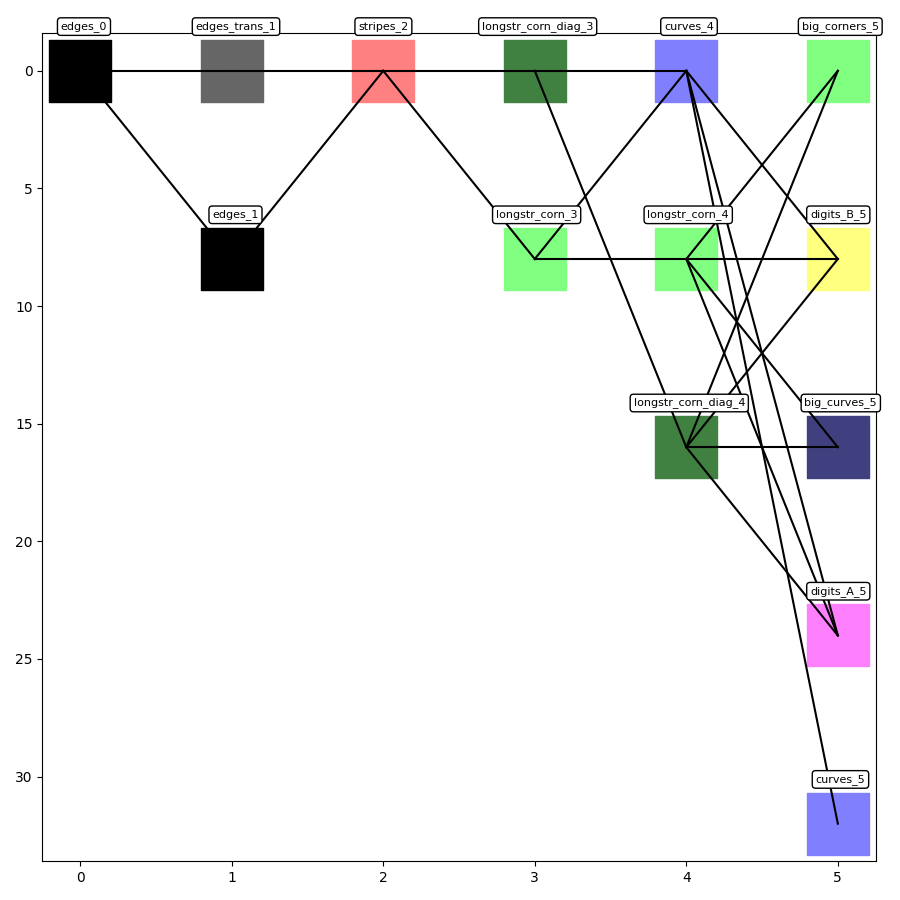
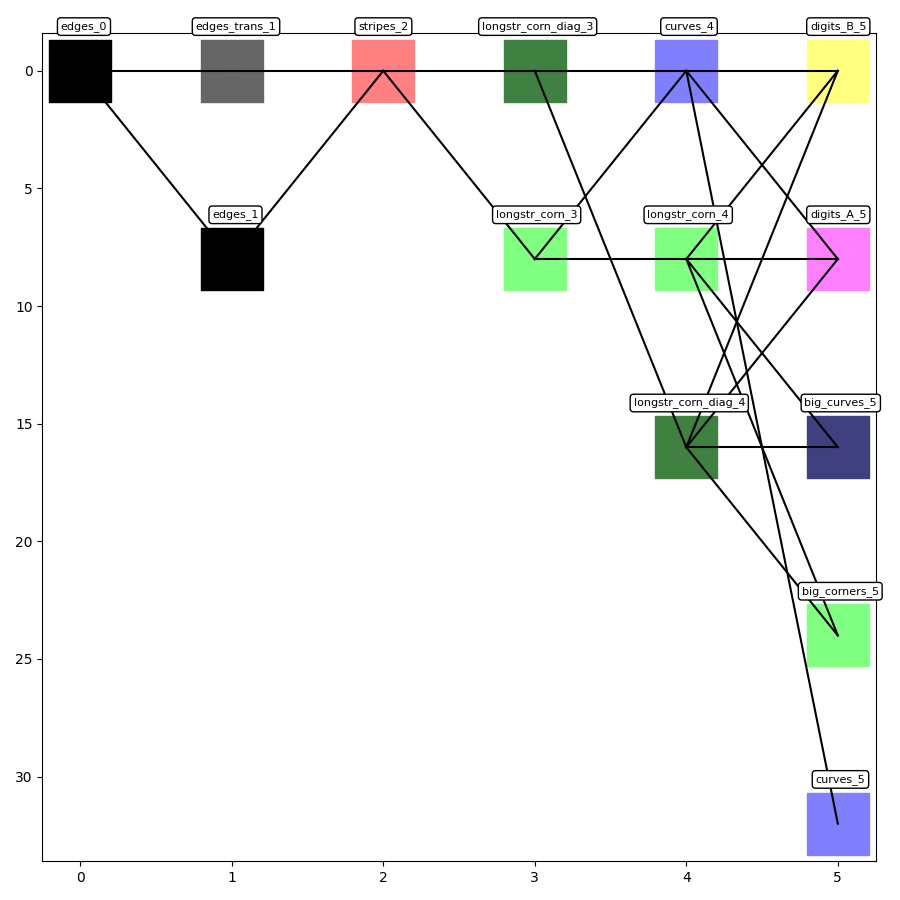
Project HFNetMNIST is compatible to changes in the code.

diff --git a/Python/Scripts/Scripts/PredefinedFilterModules.py b/Python/Scripts/Scripts/PredefinedFilterModules.py
@@ -4,9 +4,8 @@ import torch.nn as nn
 import torch.nn.functional as F
 import numpy as np
 import enum
-import random
 
-from Scripts.TrackingModules import TrackerModuleProvider
+from TrackingModules import TrackerModuleProvider
 
 """
 PredefinedConv padding is zero padding instead of replicate. This seems to improve test accuracy by about 1%.
@@ -658,14 +657,16 @@ class PredefinedConv(nn.Module):
     def create_trackers(self):
         self.tracker_out = tm.instance_tracker_module(label="PFModule")
         self.tracker_out.register_data("PFModule_kernels", self.weight)
+
+
+    def update_internal_weights(self):
+        # The internal weights have to be recomputed when the weights have been changed.
+        n_channels_per_kernel = self.n_channels_out // self.n_kernels
+        self.internal_weight.data = self.weight.data.repeat((n_channels_per_kernel, 1, 1, 1))
     
 
     def forward(self, x: Tensor) -> Tensor:
         groups = self.n_channels_in
-        if self.filters_require_grad and self.training:
-            # The internal weights have to be recomputed, because the weights cound have been changed.
-            n_channels_per_kernel = self.n_channels_out // self.n_kernels
-            self.internal_weight.data = self.weight.data.repeat((n_channels_per_kernel, 1, 1, 1))
         # if self.padding > 0:
         #     x = F.pad(x, (self.padding,self.padding,self.padding,self.padding), "replicate")
         out = F.conv2d(x, self.internal_weight, None, self.stride, groups=groups, dilation=self.dilation, padding=self.padding)
@@ -783,12 +784,12 @@ class ParamTranslationModule(WeightRegularizationModule):
     ) -> None:
         super().__init__()
         assert k % 2 == 1
+        self.k = k
         self.filters_require_grad = filters_require_grad
         self.gradient_radius = gradient_radius
-        print(f"gr: {gradient_radius}")
 
         # Initialize trainable internal weights
-        weight = torch.ones(n_channels, 1, 1, 1) * 0.01 # must not be 0.5 because the torch.abs(x) function in forward has no gradient for x=0
+        weight = (torch.rand(n_channels, 1, 1, 1) - 0.5) * 2. # must not be 0.0 because the torch.abs(x) function in forward has no gradient for x=0
         self.weight = nn.Parameter(weight, filters_require_grad)
         self.register_param_to_clamp(self.weight, -1., 1.)
 
@@ -803,9 +804,7 @@ class ParamTranslationModule(WeightRegularizationModule):
             kernel_positions = kernel_positions.unsqueeze(2)
         self.kernel_positions = nn.Parameter(kernel_positions, False)
 
-        internal_weight = - torch.abs(self.weight - self.kernel_positions) / self.step_size + 1.
-        internal_weight = torch.clamp(internal_weight, -self.gradient_radius, 2.) # upper bound is not relevant
-        internal_weight = DifferentiableClamp.apply(internal_weight, 0., 1.)
+        internal_weight = self.get_internal_weights()
         self.internal_weight = nn.Parameter(internal_weight, False)
         
         self.create_trackers(dim)
@@ -816,15 +815,22 @@ class ParamTranslationModule(WeightRegularizationModule):
         self.tracker_out.register_data("weight_per_channel", self.weight)
         self.tracker_out.register_data("weight_per_channel_limit", [-1., 1.])
 
+    def get_internal_weights(self):
+        # The internal weights have to be recomputed after any change of the weights
+        internal_weight = - torch.abs(self.weight - self.kernel_positions) / self.step_size + 1.
+        internal_weight[internal_weight < -self.gradient_radius] = 0.
+        internal_weight = DifferentiableClamp.apply(internal_weight, 0., 1.)
+        return internal_weight
+    
+    def update_internal_weights(self):
+       self.internal_weight.data = self.get_internal_weights()
+
     def forward(self, x):
-        if self.filters_require_grad and self.training:
-            # The internal weights have to be recomputed, because the weights cound have been changed.
-            internal_weight = - torch.abs(self.weight - self.kernel_positions) / self.step_size + 1.
-            internal_weight = torch.clamp(internal_weight, -self.gradient_radius, 2.) # upper bound is not relevant
-            internal_weight = DifferentiableClamp.apply(internal_weight, 0., 1.)
-            self.internal_weight.data = internal_weight
-        
-        out = F.conv2d(x, self.internal_weight, groups=x.shape[1])
+        if self.training:
+            internal_weight = self.get_internal_weights()
+        else:
+            internal_weight = self.internal_weight
+        out = F.conv2d(x, internal_weight, groups=x.shape[1])
         _ = self.tracker_out(out)
         return out
 
@@ -861,17 +867,17 @@ class ParamTranslationGroup(nn.Module):
         n_channels : int = 1,
         k : int = 3,
         gradient_radius : float = 0.,
-        spatial_requires_grad : bool = True,
+        filters_require_grad : bool = True,
 
     ) -> None:
         super().__init__()
         
         self.padding = k//2
-        self.roll_v = ParamTranslationModule(n_channels, k, 2, gradient_radius, spatial_requires_grad)
-        self.roll_h = ParamTranslationModule(n_channels, k, 3, gradient_radius, spatial_requires_grad)
+        self.roll_v = ParamTranslationModule(n_channels, k, 2, gradient_radius, filters_require_grad)
+        self.roll_h = ParamTranslationModule(n_channels, k, 3, gradient_radius, filters_require_grad)
 
     def forward(self, x):
-        x = F.pad(x, (self.padding, self.padding, self.padding, self.padding), "replicate")
+        x = F.pad(x, (self.padding, self.padding, self.padding, self.padding))
         x = self.roll_v(x)
         x = self.roll_h(x)
         return x

diff --git a/Python/Scripts/Projects/HFNetMNIST/TranslationNetMNIST.py b/Python/Scripts/Projects/HFNetMNIST/TranslationNetMNIST.py
@@ -18,7 +18,7 @@ class PreprocessingModule(nn.Module):
         n_channels_out: int,
         conv_groups: int = 1,
         pool_mode: str = "avgpool",
-        norm_module : nn.Module = pfm.LayerNorm,
+        norm_module : nn.Module = pfm.TrackedLayerNorm,
         permutation : str = "shifted" # one of shifted, identity, disabled
     ) -> None:
         super().__init__()
@@ -88,7 +88,7 @@ class TranslationBlock(nn.Module):
         tm = pfm.tm
         
         if normalization_mode == "layernorm":
-            norm_module = pfm.LayerNorm
+            norm_module = pfm.TrackedLayerNorm
         elif normalization_mode == "batchnorm":
             norm_module = nn.BatchNorm2d
         elif normalization_mode == "identity":
@@ -110,15 +110,16 @@ class TranslationBlock(nn.Module):
         if spatial_mode == "predefined_filters":
             tm.instance_tracker_module_group(label="3x3 Conv")
             self.tracker_input_spatial = tm.instance_tracker_module(label="Input")
-            self.spatial = pfm.PredefinedFilterModule3x3Part(
+            self.spatial = pfm.PredefinedConvWithDecorativeCopy(
                 n_channels_in=n_channels_out,
                 filter_mode=pfm.ParameterizedFilterMode[filter_mode],
                 n_angles=n_angles,
-                handcrafted_filters_require_grad=spatial_requires_grad,
+                filters_require_grad=spatial_requires_grad,
                 f=1,
                 k=3,
                 stride=1,
             )
+            self.spatial_norm = norm_module(n_channels_out)
             self.activation = pfm.TrackedLeakyReLU()
         elif spatial_mode == "parameterized_translation":
             tm.instance_tracker_module_group(label="Translation")
@@ -141,6 +142,7 @@ class TranslationBlock(nn.Module):
         x_skip = x
         _ = self.tracker_input_spatial(x)
         x = self.spatial(x)
+        x = self.spatial_norm(x)
         x = self.activation(x)
         x = self.blend(x_skip, x)
         _ = self.tracker_input_conv_2(x)
@@ -324,7 +326,7 @@ class ConvExpressionsManager():
                 self.block.conv1x1_1.relu.tracker_out,
                 self.block.tracker_input_spatial,
                 self.block.spatial.predev_conv.tracker_out,
-                self.block.spatial.activation_layer.tracker_out,
+                self.block.spatial_norm.tracker_out,
                 self.block.blend.tracker_out,
                 self.block.tracker_input_conv_2,
                 self.block.conv1x1_2.conv1x1.tracker_out,
@@ -690,7 +692,7 @@ class TranslationNet_(nn.Module):
         # Classifier
         tm.instance_tracker_module_group(label="Classifier")
         n_channels_in = blockconfig_list[-1]['n_channels_out']
-        self.classifier = pfm.TrackedConv1x1(n_channels_in, n_classes, 1)
+        self.classifier = pfm.TrackedConv1x1Regularized(n_channels_in, n_classes, 1)
         self.tracker_classifier_softmax = tm.instance_tracker_module(label="Class Probabilities", channel_labels="classes")
         
         pfm.initialize_weights(self.modules(), init_mode)

diff --git a/Python/Scripts/Projects/HFNetMNIST/get_dl_objects.py b/Python/Scripts/Projects/HFNetMNIST/get_dl_objects.py
@@ -37,9 +37,9 @@ def get_network():
             } for i in range(6)],
         init_mode='uniform', # one of uniform, uniform_translation_as_pfm, zero, identity, kaiming
         pool_mode="lppool",
-        #conv_expressions=["digits_A", "digits_B", "big_curves", "curves", "big_corners"],
-        #conv_expressions_path = "conv_expressions_8_filters.txt",
-        #statedict=os.path.join('..', 'Projects', 'HFNetMNIST', 'mnist_translationnet_own_features_block_6_lppool.pt'),
+        conv_expressions=["digits_A", "digits_B", "big_curves", "curves", "big_corners"],
+        conv_expressions_path = "conv_expressions_8_filters.txt",
+        #statedict=os.path.join('..', 'Projects', 'HFNetMNIST', 'mnist_translationnet_lppool.pt'),
     )
         
     dl_network = DLNetwork(model, device, True, IMAGE_SHAPE, softmax=False)
@@ -52,22 +52,33 @@ def get_network():
 def get_dataset():
 
     transform_norm = transforms.Compose([
+        transforms.ToTensor(),
+        transforms.Normalize(mean=NORM_MEAN, std=NORM_STD),
+    ])
+    transform_test = transforms.Compose([
+        transforms.Resize(IMAGE_SHAPE[1:]),
+        transforms.ToTensor()
+    ])
+    transform_test_norm = transforms.Compose([
+            transforms.Resize(IMAGE_SHAPE[1:]),
             transforms.ToTensor(),
             transforms.Normalize(mean=NORM_MEAN, std=NORM_STD),
-        ])
-    transform_test = transforms.Compose([
-            transforms.Resize(IMAGE_SHAPE[1:]),
-            transforms.ToTensor()])
+    ])
 
     dataset = MNIST(b_train=False, transform='transform_test', root=os.path.dirname(os.path.realpath(__file__)), download=False)
     dataset.prepare({'transform_test' : transform_test})
 
+    dataset_test = MNIST(b_train=False, transform='transform_test', root=os.path.dirname(os.path.realpath(__file__)), download=False)
+    dataset_test.prepare({'transform_test' : transform_test_norm})
+
     np.random.seed(SEED)
-    data_indices = None
+    data_indices = []
 
     dldata = DLData(dataset, data_indices, dataset.class_names, N_CLASSES)
+
+    loader_test = torch.utils.data.DataLoader(dataset_test, batch_size=64)
     
-    return dldata, transform_norm
+    return dldata, transform_norm, loader_test
 
 
 def get_noise_generator():

diff --git a/Python/Scripts/Scripts/NoiseGenerator.py b/Python/Scripts/Scripts/NoiseGenerator.py
@@ -15,11 +15,11 @@ class NoiseGenerator:
         # maximum = self.active_noise_image.max()
         # self.active_noise_image = (self.active_noise_image - minimum) / (maximum - minimum)
 
-        # self.active_noise_image = torch.zeros(*self.shape, device=self.device)
-        # self.active_noise_image[:, self.shape[1]//2, self.shape[2]//2] = 1.
-
         self.active_noise_image = torch.zeros(*self.shape, device=self.device)
-        self.active_noise_image[0, :] = 0.5
+        self.active_noise_image[:, self.shape[1]//2, self.shape[2]//2] = 1.
+
+        # self.active_noise_image = torch.zeros(*self.shape, device=self.device)
+        # self.active_noise_image[0, :] = 0.5
 
 
     def get_noise_image(self):

diff --git a/Python/Scripts/Scripts/DLWebServer.py b/Python/Scripts/Scripts/DLWebServer.py
@@ -267,8 +267,8 @@ async def main():
 
 
 if __name__ == "__main__":
-    #project = "HFNetMNIST"
-    project = "Flowers102"
+    project = "HFNetMNIST"
+    #project = "Flowers102"
     source_path = os.path.join(os.path.dirname(os.path.realpath(__file__)), "..", "Projects", project, "get_dl_objects.py")
     get_dl_objects_module = get_module(source_path)
     prepare_dl_objects(get_dl_objects_module)
